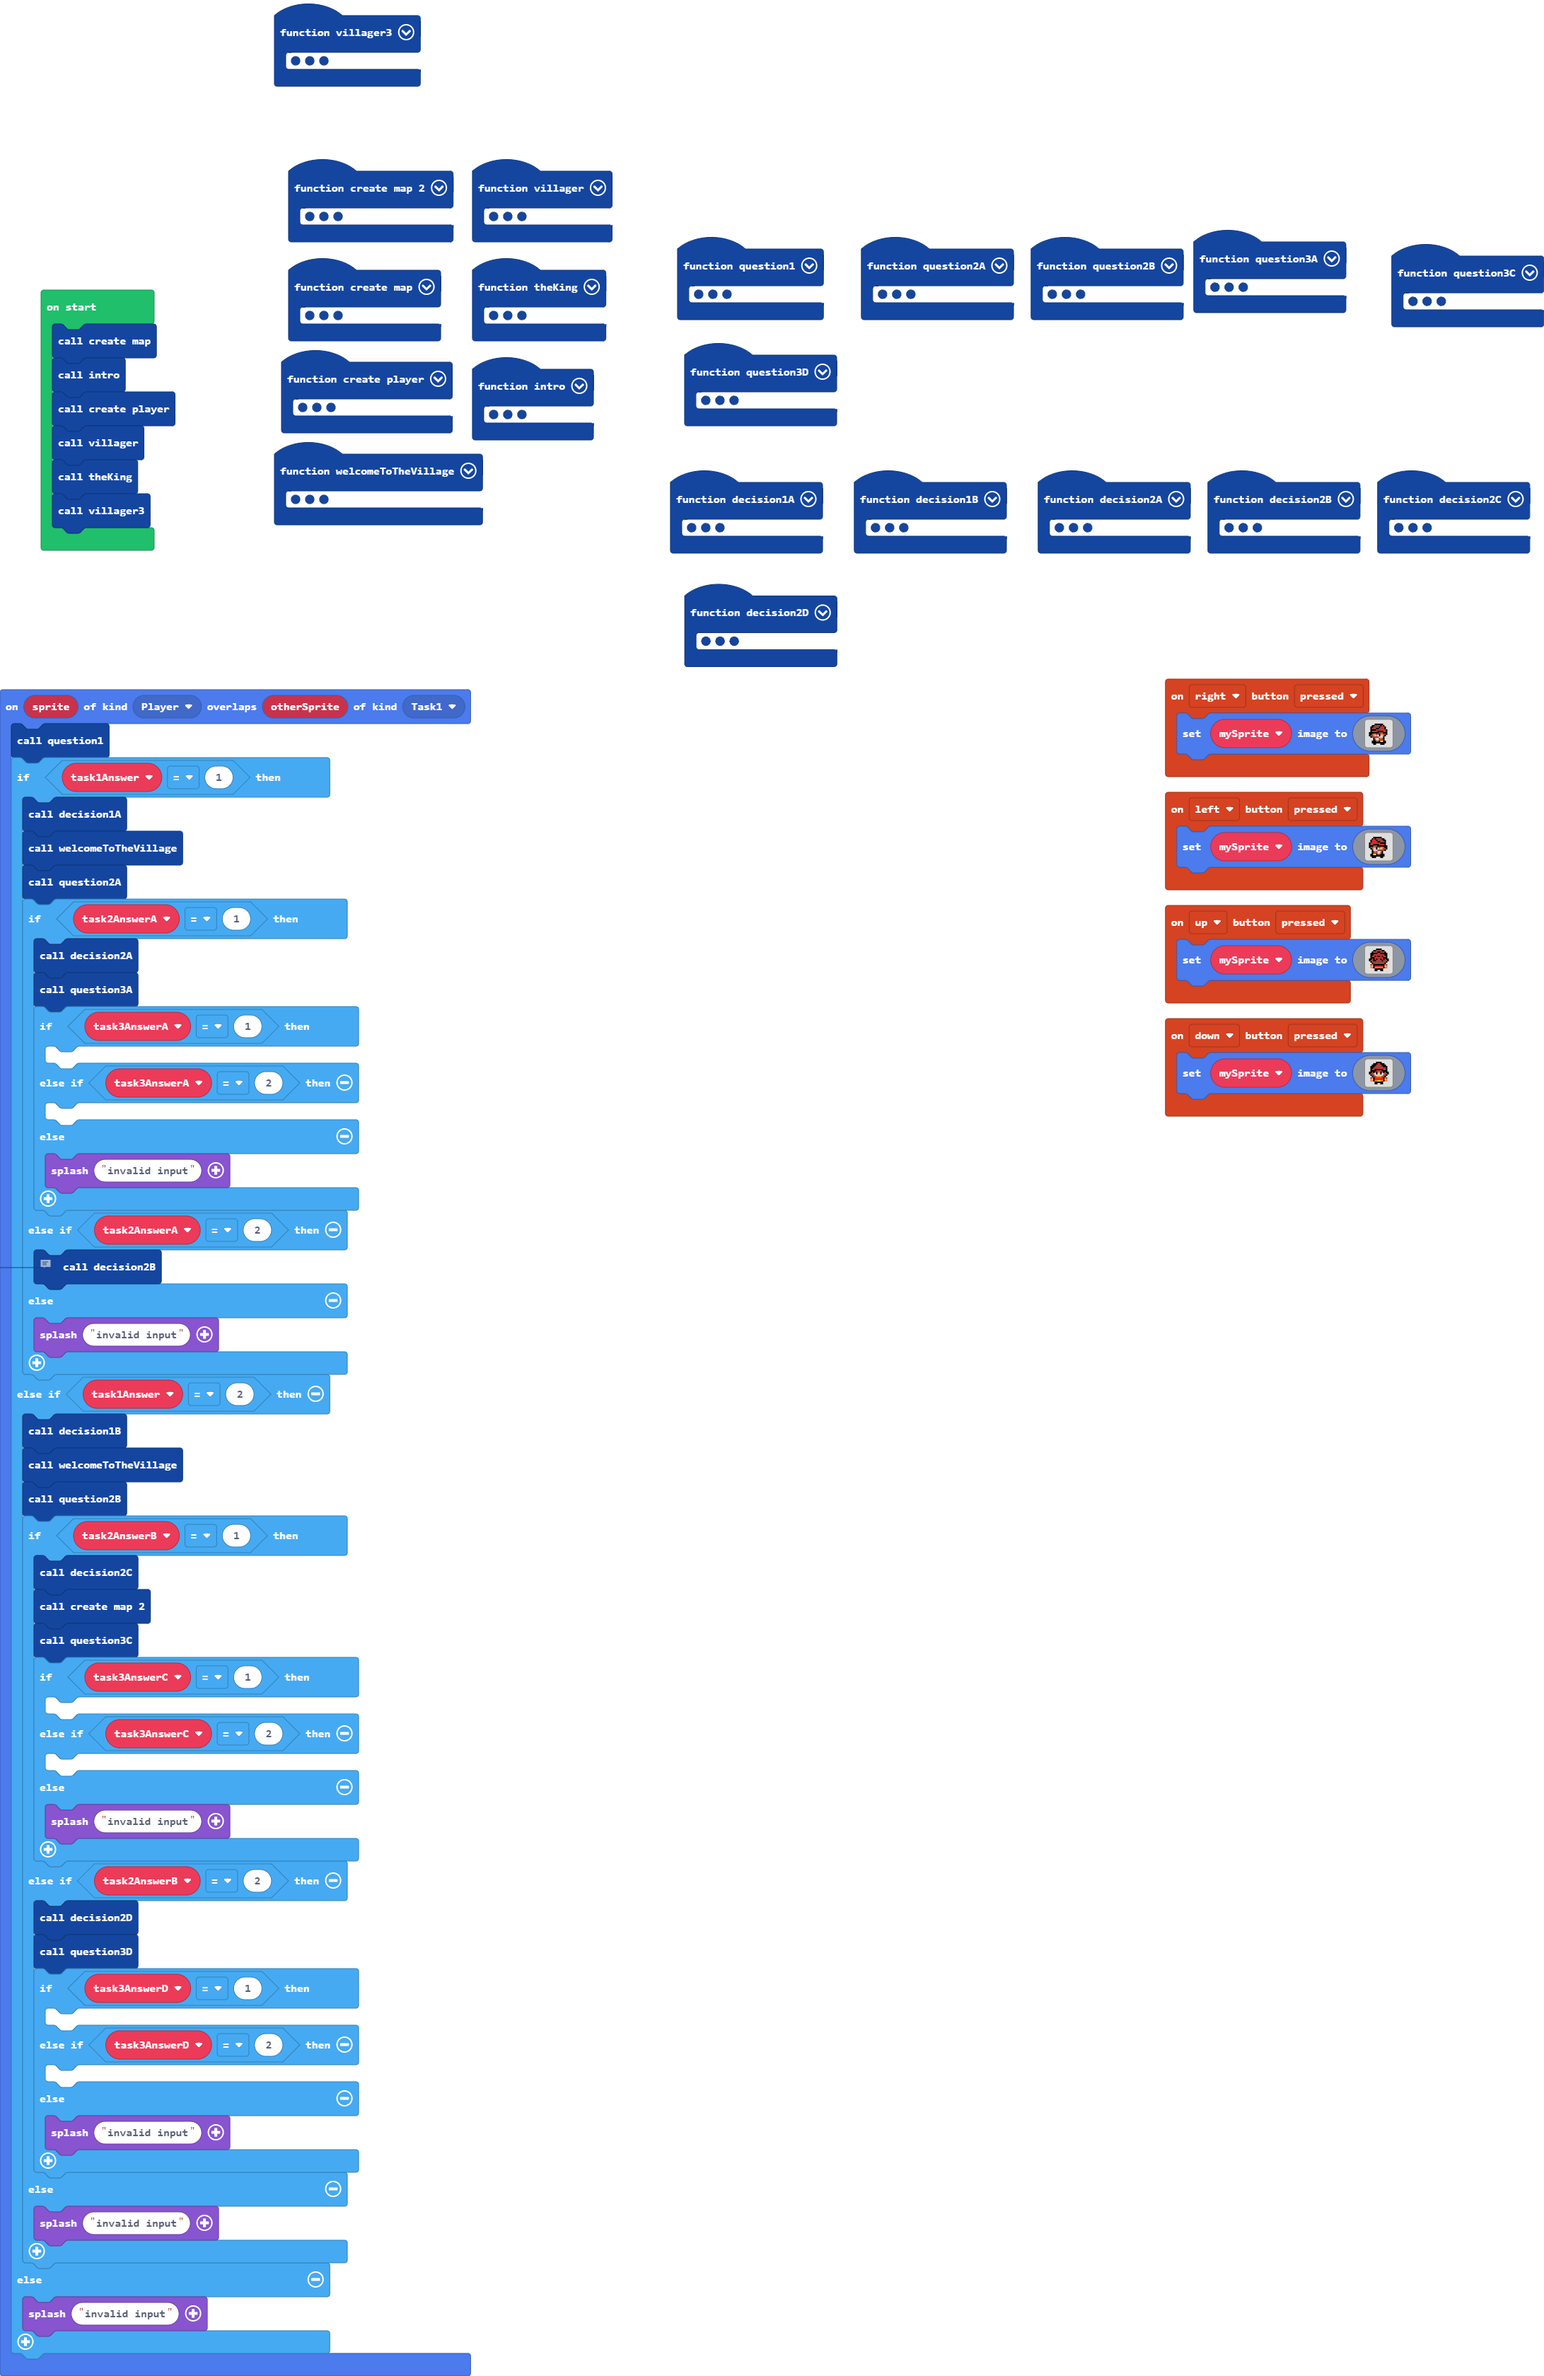
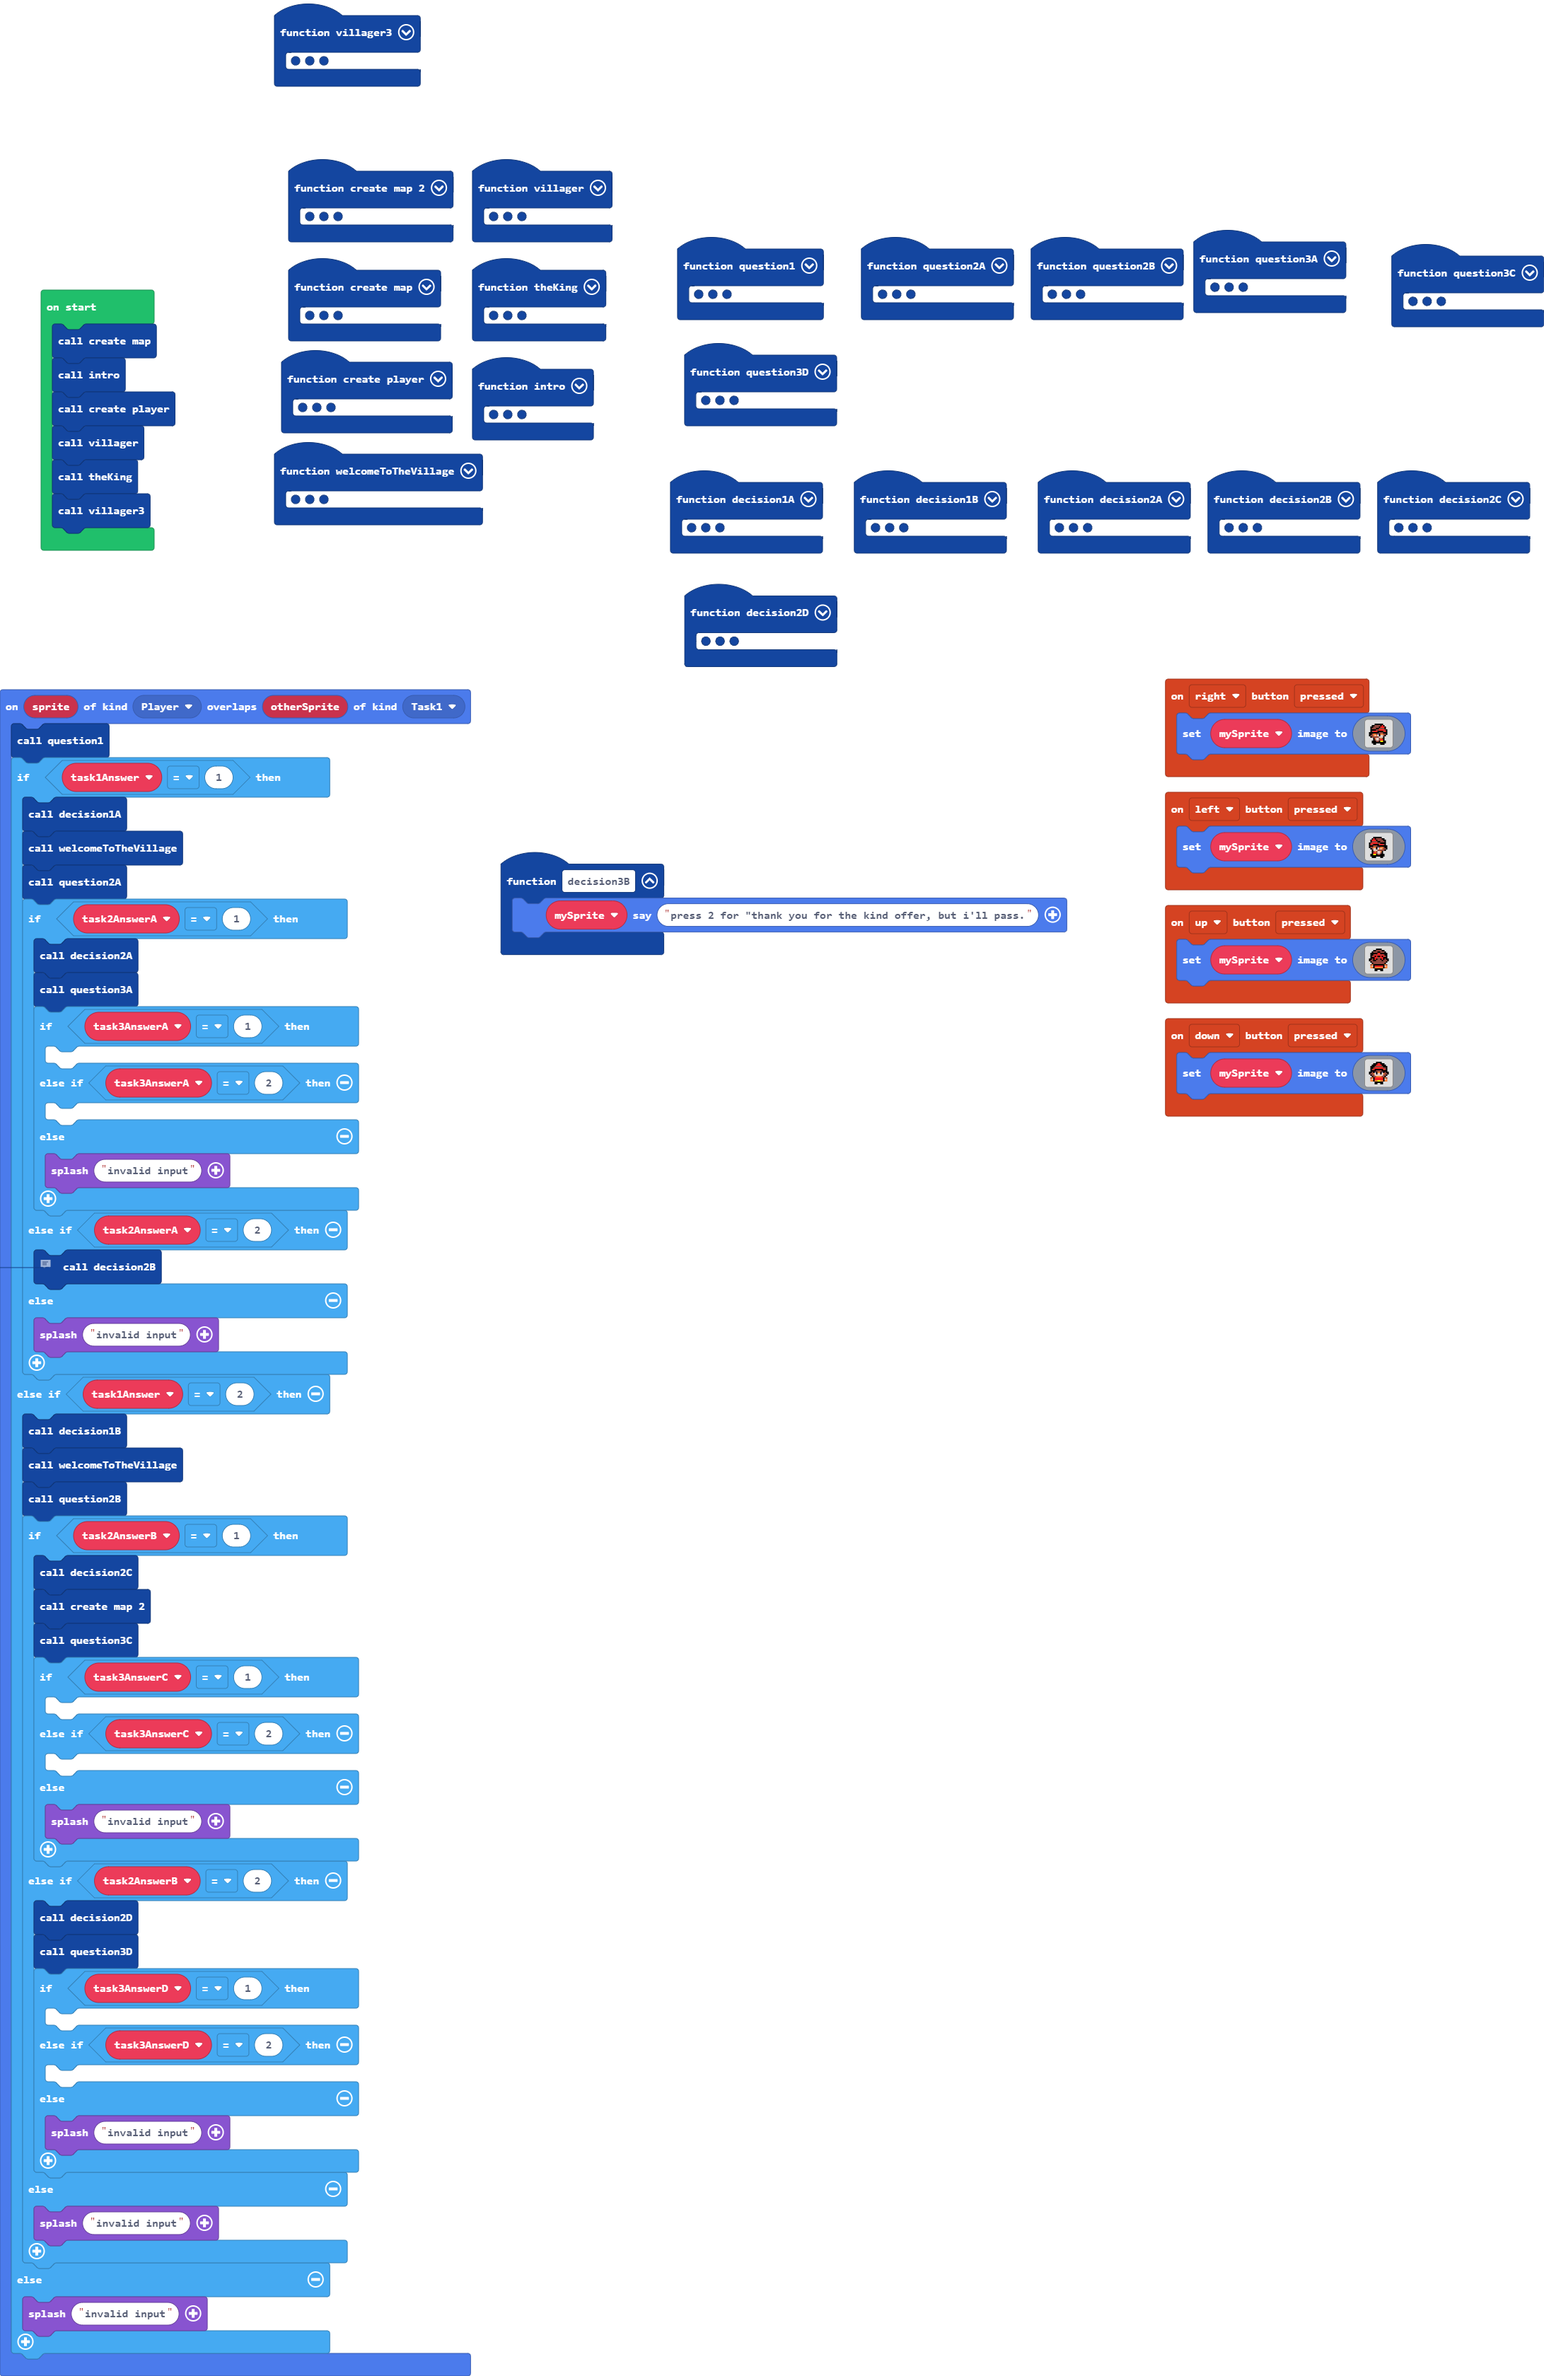
Update main.blocks, main.ts

Changed region(s): [[0.3115, 0.3406, 0.6853, 0.4025]]

diff --git a/main.ts b/main.ts
@@ -343,6 +343,9 @@ function decision2A () {
 function create_map () {
     tiles.setTilemap(tilemap`level1`)
 }
+function decision3B () {
+    mySprite.say("press 2 for \"thank you for the kind offer, but i'll pass.")
+}
 function villager3 () {
     villager2 = sprites.create(img`
         . f f f . f f f f . f f f . 
